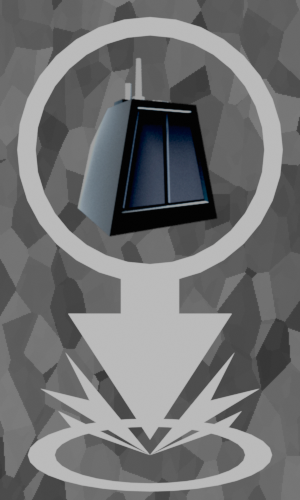
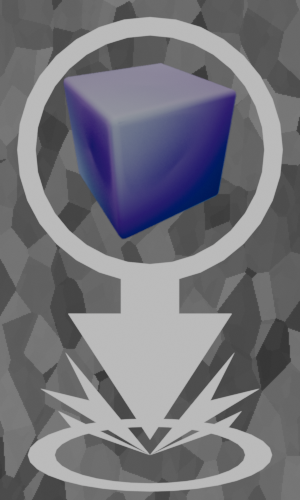
Pieces for sale now lose orders.

Changed region(s): [[0.21, 0.12, 0.81, 0.48]]

diff --git a/src/frontend/mod.rs b/src/frontend/mod.rs
@@ -35,6 +35,11 @@ impl Plugin for InputAndGraphics {
         );
 
         app.configure_sets(
+            EndTurn,
+            (BackEndSystems, FrontEndSystems, ClearBackendData).chain(),
+        );
+
+        app.configure_sets(
             ExecuteSelectedAction,
             (BackEndSystems, FrontEndSystems, ClearBackendData).chain(),
         );
@@ -71,5 +76,5 @@ use crate::backend::{
     BackEndSystems,
     game_actions::{ActionOrSelectionChanged, ClearBackendData, ExecuteSelectedAction},
     game_parameters::SetUpBoard,
-    players::StartTurn,
+    players::{EndTurn, StartTurn},
 };

diff --git a/src/backend/players.rs b/src/backend/players.rs
@@ -286,6 +286,7 @@ fn sell_pieces(
     dead_player: On<PlayerDied>,
     owned_pieces: Query<&OwnsLogPieces>,
     ghost_player: Single<Entity, With<GhostPlayer>>,
+    mut piece_orders: Query<&mut OrdersPerTurn>,
     mut commands: Commands,
 ) -> Result<(), BevyError> {
     let ghost_ent = ghost_player.entity();
@@ -296,6 +297,8 @@ fn sell_pieces(
             piece: *piece,
             to_player: ghost_ent,
         });
+
+        piece_orders.get_mut(*piece)?.current = 0;
     }
 
     Ok(())
